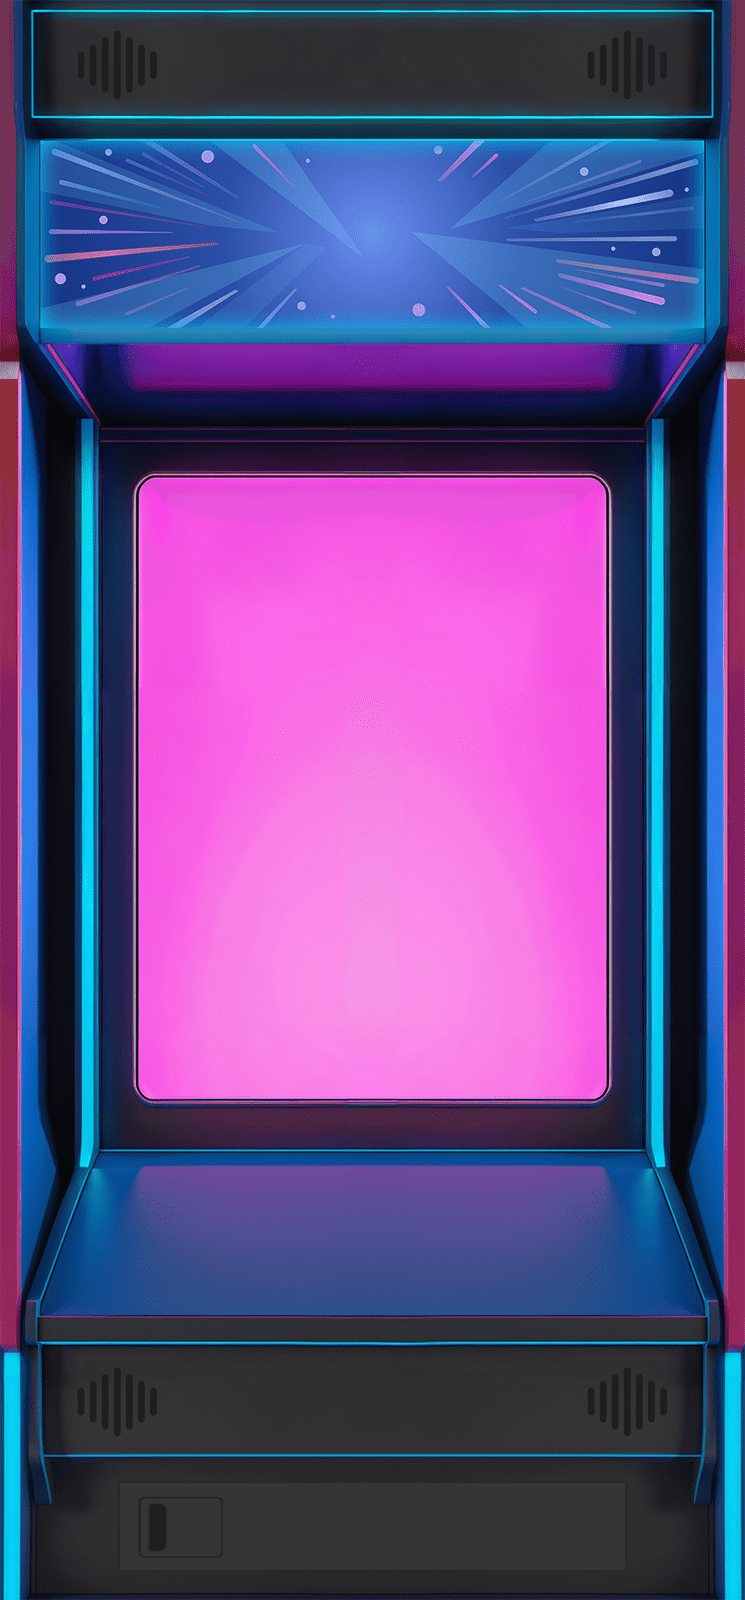
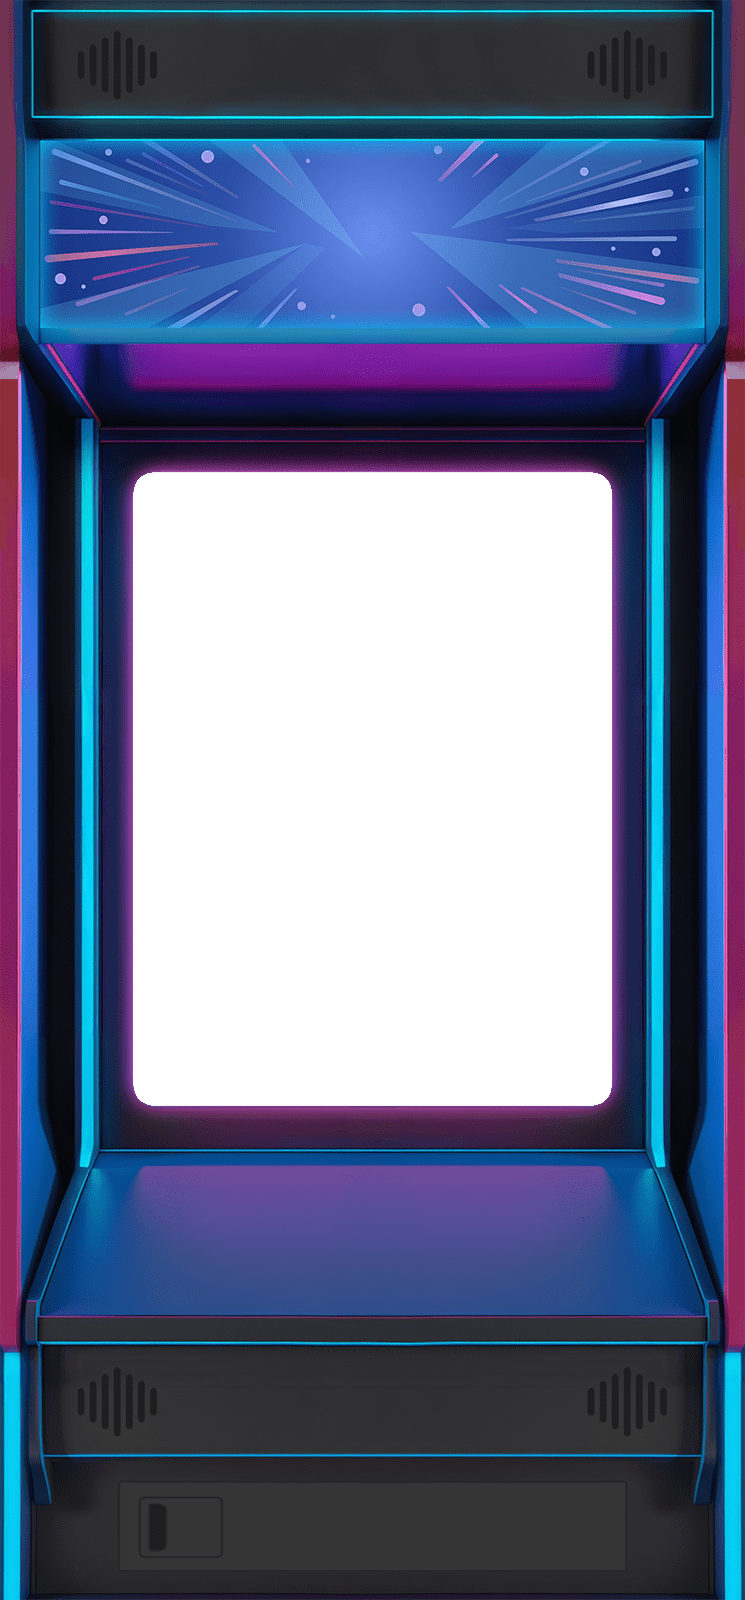
style: улучшена анимация появления монеты и текста с уменьшенным начальным scale

diff --git a/src/pages/Monetka/Monetka.tsx b/src/pages/Monetka/Monetka.tsx
@@ -5,12 +5,13 @@
 import { FC, useEffect, useState, useContext, useCallback } from 'react';
 import { useNavigate, useParams } from 'react-router-dom';
 
+import { formatNumber } from 'utils/additionalFunctions';
+
 import Loader from '../../components/Loader/Loader';
 import { Warning } from '../../components/OrientationWarning/Warning';
 import useOrientation from '../../hooks/useOrientation';
 import useTelegram from '../../hooks/useTelegram';
 import monetkaButtonsBackground from '../../images/monetka/0.png';
-import monetkaBackground from '../../images/monetka/00012-1122478660_3_3 1.png';
 import buttonBlueDefault from '../../images/monetka/btn_O_Default.png'
 import buttonBlue from '../../images/monetka/btn_O_Default_light.png';
 import buttonBlueDisabled from '../../images/monetka/btn_O_Down.png';
@@ -46,17 +47,17 @@ export const Monetka: FC = () => {
   const translation = useAppSelector(store => store.app.languageSettings);
   const { sendMessage, wsMessages, connect, clearMessages, disconnect } = useContext(WebSocketContext)!;
   const { tg } = useTelegram();
-  console.log(gameState);
+
   const [blueButtonState, setBlueButtonState] = useState('default');
   const [greenButtonState, setGreenButtonState] = useState('default');
   const [isBackgroundLoaded, setIsBackgroundLoaded] = useState(false);
   const [currentCoin, setCurrentCoin] = useState<string | null>(null);
-  console.log(currentCoin);
+
   const [coinStates, setCoinStates] = useState<string[]>([
     coinDefault, coinDefault, coinDefault, coinDefault, coinDefault
   ]);
-  const [currentCoinIndex, setCurrentCoinIndex] = useState<number>(0);
   console.log(coinStates);
+  console.log(gameState);
   // Подключение к WebSocket
   useEffect(() => {
     if (!wsMessages || wsMessages.length === 0) {
@@ -150,10 +151,7 @@ export const Monetka: FC = () => {
           
           setGameState((prev: any) => ({
             ...prev,
-            data: {
-              ...prev.data,
-              next_x: res.game_answer_info.next_x
-            },
+            data: res,
             winner: null
           }));
         }
@@ -287,18 +285,11 @@ export const Monetka: FC = () => {
     });
   };
 
-  // Предзагрузка фонового изображения
-  useEffect(() => {
-    const img = new Image();
-    img.src = monetkaBackground;
-    img.onload = () => setIsBackgroundLoaded(true);
-  }, []);
-
   if (!isPortrait) {
     return <Warning />;
   }
 
-  if (gameState.loading || !isBackgroundLoaded) {
+  if (gameState.loading) {
     return <Loader />;
   }
 
@@ -316,11 +307,16 @@ export const Monetka: FC = () => {
         ))}
       </div>
       {currentCoin && (
-        <img 
-          src={currentCoin} 
-          alt="coin animation" 
-          className={styles.monetka__coin}
-        />
+        <>
+          <img 
+            src={currentCoin} 
+            alt="coin animation" 
+            className={styles.monetka__coin}
+          />
+          <div className={styles.monetka__coinValue}>
+            + 30
+          </div>
+        </>
       )}
       <div className={styles.monetka__buttonsContainer}>
         <img src={monetkaButtonsBackground} alt="buttonsBackground" className={styles.monetka__buttons} />
@@ -344,13 +340,13 @@ export const Monetka: FC = () => {
           className={`${styles.monetka__controlButton} ${styles.monetka__controlButton_pink}`}
           onClick={() => {}}
         >
-          Кнопка 1
+          Забрать: {gameState.data?.bet || 0}
         </button>
         <button 
           className={`${styles.monetka__controlButton} ${styles.monetka__controlButton_gray}`}
           onClick={() => {}}
-        >
-          Кнопка 2
+          >
+          Забрать: {gameState?.data?.win?.winner_value ? formatNumber(Number(gameState?.data?.win?.winner_value)) : 0}
         </button>
       </div>
     </div> 

diff --git a/src/pages/Monetka/Monetka.module.scss b/src/pages/Monetka/Monetka.module.scss
@@ -6,11 +6,35 @@
   @include min-size(100%, 100vh+1);
   @include flex(column, center, center);
   @include indents(0 $space-16, 0);
-  background-image: url('../../images/monetka/coin_bg.png');
+  position: relative;
+  background-image: url('../../images/monetka/screen_empty.png');
   background-size: 100% 100%;
   background-position: center;
   background-repeat: no-repeat;
+  z-index: 1;
   
+  &::before {
+    content: '';
+    @include position(absolute, $top: 0, $left: 0);
+    @include size(100%, 100%);
+    background-image: url('../../images/monetka/coin_bg.png');
+    background-size: 100% 100%;
+    background-position: center;
+    background-repeat: no-repeat;
+    z-index: 0;
+  }
+
+  &::after {
+    content: '';
+    @include position(absolute, $top: 0, $left: 0);
+    @include size(100%, 100%);
+    background-image: url('../../images/monetka/screen_fx.png');
+    background-size: 100% 100%;
+    background-position: center;
+    background-repeat: no-repeat;
+    z-index: -1;
+  }
+
   &__buttonsContainer {
     @include size(100%, auto);
     @include min-size(100%, 48px);
@@ -74,14 +98,16 @@
   }
 
   &__controlButtons {
-    @include position(absolute, $bottom: 9.5%, $left: 50%);
+    @include position(absolute, $bottom: 10%, $left: 50%);
     @include size(50%, auto);
     @include flex(row, center, center, $space-8);
     transform: translateX(-50%);
   }
 
   &__controlButton {
+    @include indents(0 $space-16, 0);
     @include size(45%, 36px);
+    @include flex(row, center, center);
     border-radius: $radius-10;
     border: none;
     font-size: 12px;
@@ -89,6 +115,8 @@
     cursor: pointer;
     transition: transform 0.2s ease;
     color: white;
+    overflow: hidden;
+    text-overflow: wrap;
 
     &:active {
       transform: scale(0.95);
@@ -111,14 +139,29 @@
     transform: translate(-50%, -50%);
     aspect-ratio: 1/1;
     z-index: 10;
-    animation: coinAppear 0.3s ease-in forwards;
+    animation: coinAppear .5s ease-in forwards;
+    opacity: 0;
+
+    &[src] {
+      opacity: 1;
+    }
+  }
+
+  &__coinValue {
+    @include position(absolute, $top: 65%, $left: 50%);
+    transform: translateX(-50%);
+    color: white;
+    font-size: 16px;
+    font-weight: 700;
+    z-index: 10;
+    animation: coinAppear .5s ease-in forwards;
   }
 }
 
 @keyframes coinAppear {
   from {
-    opacity: 0.3;
-    transform: translate(-50%, -50%) scale(0.8);
+    opacity: 0;
+    transform: translate(-50%, -50%) scale(0.2);
   }
   to {
     opacity: 1;
